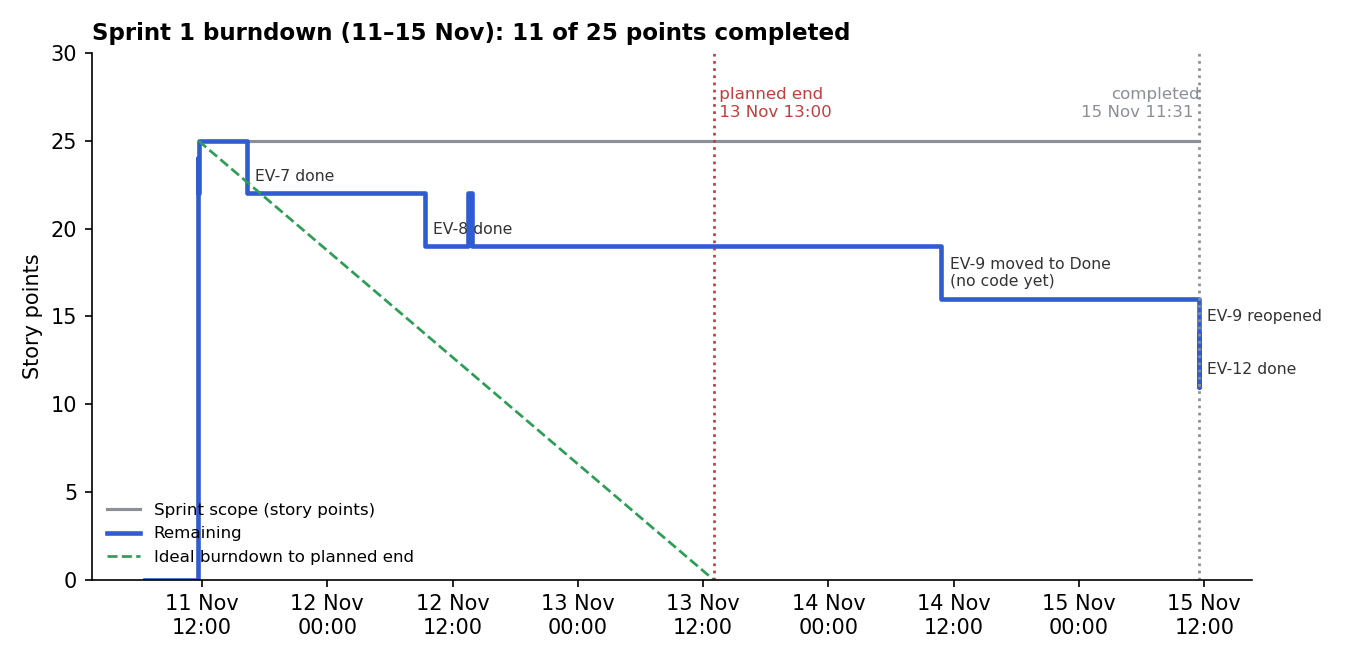
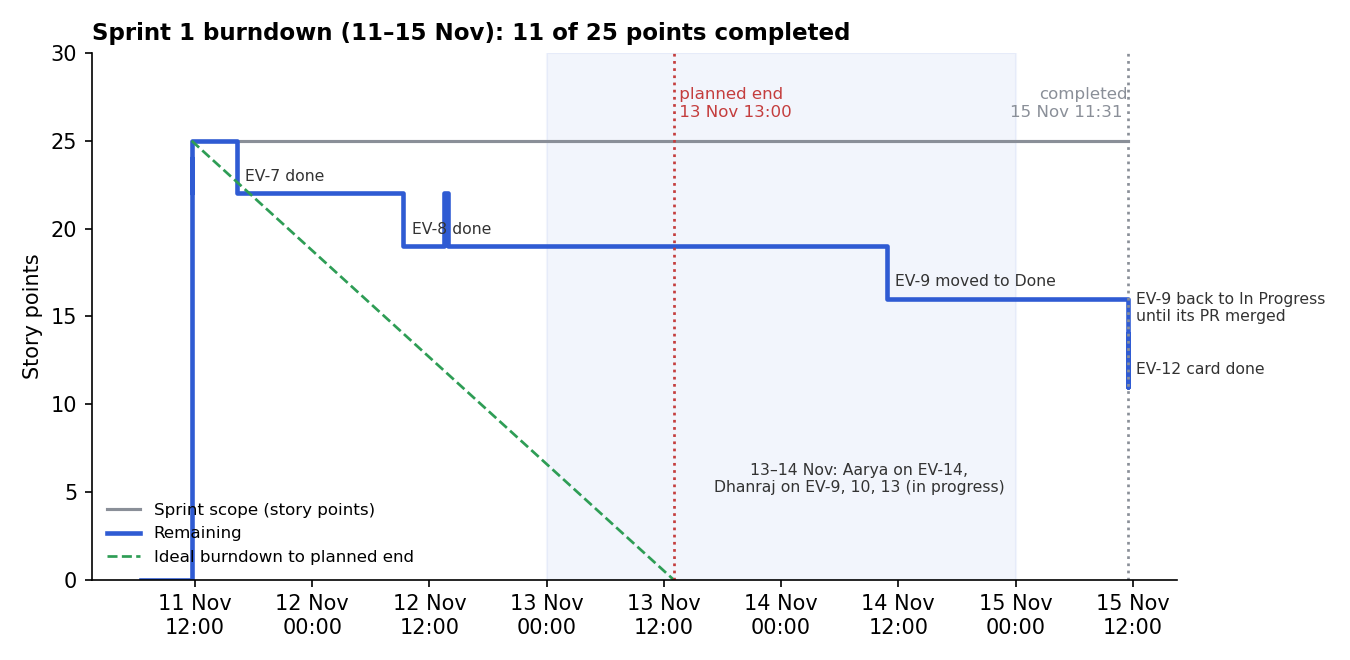
Record 13–14 Nov work and the Sprint 1 pairing session
- Aarya worked on EV-14 and Dhanraj on EV-9, EV-10 and EV-13 on 13 and 14 Nov;
  the flat burndown is explained by nothing being merged until 15 Nov.
- Pair programming on Fri 13 Nov: Yatharth drove, Aarya navigated, on EV-14.
- Daily log for 15 Nov gets Aarya's and Dhanraj's lines.
- Sprint 1 burndown chart annotated with the 13–14 Nov work in progress.

Claude-Session: https://claude.ai/code/session_01XET8XpccocAT8NTjxujbNY

diff --git a/docs/risks.md b/docs/risks.md
@@ -4,14 +4,14 @@ Probability and impact use Low, Medium or High. The last column records what act
 
 | ID | Risk | Probability | Impact | Mitigation | Owner | What actually happened |
 |---|---|---|---|---|---|---|
-| R1 | 2-day sprints give thin burndown charts | High | Medium | Move items in real time, disclose the short sprints in the report | Dhanraj | **Happened, worse than expected.** Sprint 1 slipped from 2 to 4.5 days and Sprint 2 ran on one day. The charts still tell a clear story because every move is timestamped. |
+| R1 | 2-day sprints give thin burndown charts | High | Medium | Move items in real time, disclose the short sprints in the report | Dhanraj | **Happened.** Sprint 1 ran from 11 to 15 Nov and Sprint 2 on one day. The charts still tell a clear story because every move is timestamped. |
 | R2 | Examiner questions Vitest as an xUnit tool | Medium | Medium | Ask faculty on Day 1, show the JUnit XML output | Dhanraj | Mitigated: CI publishes JUnit XML (`reports/junit.xml`). The faculty question was not confirmed in writing. |
 | R3 | Only one person understands the code | Medium | High | Owner walkthrough per story, viva rehearsal on Day 5 | Yatharth | **Still open.** Most code was written by the tech lead with an AI assistant. Walkthroughs and rehearsal are planned before the viva. |
 | R4 | Development laptop powers off under heavy load on battery | Medium | High | Stay plugged in, let CI run heavy jobs, commit often | Yatharth | Did not happen. Heavy builds ran on mains power, and tests ran in CI. |
 | R5 | Gmail or Wi-Fi fails during the viva demo | Medium | High | Rehearsed offline Docker fallback with Mailpit | Yatharth | Mitigated: `docker compose up --build` runs the whole app offline. It was tested on an empty database on 15 Nov. The public Vercel deployment was deferred (EV-26). |
 | R6 | Jira Free plan lacks a report | Low | Medium | Build the chart manually from exported data | Dhanraj | Did not happen. Burndown, burnup, velocity and sprint reports are all available on the Free plan. |
 | R7 | Print shop closed on Sunday 15 Nov | Medium | High | Confirm on Saturday, otherwise print early Monday | Dhanraj | Open on 15 Nov: to be confirmed. |
-| R8 | Scope too large for 2 sprints | Medium | Medium | Size Sprint 2 to Sprint 1 velocity, drop Should items first | Aarya | **Happened in Sprint 1** (11 of 25 SP). Sprint 2 dropped all Should and Could items except those needed by the brief. |
-| R9 *(new)* | Jira cards moved ahead of the code | Not foreseen | High | Definition of Done requires a merged PR with CI green; GitHub for Jira shows code on each card | Scrum Master | **Happened twice** (EV-8 on 12 Nov, EV-9 on 14 Nov). Both were reopened and redone. |
+| R8 | Scope too large for 2 sprints | Medium | Medium | Size Sprint 2 to Sprint 1 velocity, drop Should items first | Aarya | Sprint 1 completed 11 of 25 SP. Sprint 2 carried over the rest and dropped all Should and Could items except those needed by the brief. |
+| R9 *(new)* | Jira cards moved ahead of the code | Not foreseen | High | Definition of Done requires a merged PR with CI green; GitHub for Jira shows code on each card | Scrum Master | **Happened twice** (EV-8 on 12 Nov, EV-9 on 14 Nov). Both went back to In Progress until their PRs were merged. |
 | R10 *(new)* | Wrong Jira site timezone (+11 Sydney) | Not foreseen | Medium | Set the site default timezone to India | Yatharth | Found and fixed on 12 Nov. Sprint 1's end date was corrected to 13 Nov 13:00 IST. |
-| R11 *(new)* | Days with no team activity | Not foreseen | High | Daily scrum every day, even if only 5 minutes | Scrum Master | **Happened on 13 and 14 Nov:** no merges and no daily scrum. Sprint 1 missed its end date. |
+| R11 *(new)* | Work in progress not visible on the board | Not foreseen | Medium | Daily Scrum log every day; push work in progress as draft PRs | Scrum Master | **Happened on 13 and 14 Nov:** Aarya (EV-14) and Dhanraj (EV-9, EV-10, EV-13) worked on their stories, but none was merged until 15 Nov, so the burndown stayed flat. |

diff --git a/docs/metrics.md b/docs/metrics.md
@@ -18,9 +18,9 @@ Charts: `evidence/charts/sprint1-burndown.png`, `sprint2-burndown.png`, `velocit
 
 ## Reading the charts
 
-- **Sprint 1 burndown:** scope jumps from 0 to 25 at about 09:40 on 11 Nov when the stories were added. Remaining work dropped to 22 when EV-7 was done (11 Nov 16:18) and to 19 when EV-8 was done (12 Nov). The line is then flat for almost three days, through the planned end on 13 Nov 13:00. The drop to 16 on 14 Nov was EV-9 being moved to Done before its code existed; it was reopened on 15 Nov, and the last real drop was EV-12 to 11 remaining. The flat stretch shows that no work was finished on 13 and 14 Nov.
+- **Sprint 1 burndown:** scope jumps from 0 to 25 at about 09:40 on 11 Nov when the stories were added. Remaining work dropped to 22 when EV-7 was done (11 Nov 16:18) and to 19 when EV-8 was done (12 Nov). From 12 to 15 Nov the line stays nearly flat because no further story reached Done: on 13 and 14 Nov Aarya was working on EV-14 and Dhanraj on EV-9, EV-10 and EV-13, and none of these was merged until 15 Nov. EV-12 was merged on 12 Nov, but its card was moved to Done only on 15 Nov (drop to 11). The dip to 16 on 14 Nov is EV-9 being moved to Done before its PR merged; it went back to In Progress on 15 Nov, leaving 14 at close.
 - **Sprint 2 burndown:** no scope change. Remaining work fell in two steps, 25 → 14 at 11:55 when PRs #4–#7 merged and 14 → 0 at 12:21 when PRs #8–#11 merged. All four Sprint 1 leftovers were nearly finished when Sprint 2 started, which is why the sprint closed within an hour.
-- **Velocity:** 11 then 25, average 18. Sprint 2 is not evidence of a sustainable pace of 25 a day. It reflects stories that were finished as soon as the work actually resumed.
+- **Velocity:** 11 then 25, average 18. Sprint 2 is not evidence of a sustainable pace of 25 a day. It reflects stories that were already in progress in Sprint 1 and were merged early in Sprint 2.
 - **Burnup:** the scope line rises once, by 3 SP, when the public deployment was split into its own story. That is honest re-scoping, not creep.
 
 ## Quality
@@ -41,7 +41,7 @@ Charts: `evidence/charts/sprint1-burndown.png`, `sprint2-burndown.png`, `velocit
 
 ## Interpretation
 
-1. **The team over-planned Sprint 1 relative to its availability, not its capacity.** Work stopped on 13 and 14 Nov. A daily scrum on those days would have surfaced this and allowed a re-plan.
-2. **Jira only tells the truth if the board is updated honestly.** Twice, cards reached Done before their code existed (EV-8 on 12 Nov, EV-9 on 14 Nov). Both were reopened, and the burndown shows the bumps. The Definition of Done ("merged with CI green") is what caught it.
+1. **Finished work, not effort, moves the burndown.** Aarya and Dhanraj worked on their stories on 13 and 14 Nov, but none was merged until 15 Nov, so the chart is flat on those days. Smaller stories, and pushing work in progress as draft PRs each day, would make that work visible on the board.
+2. **The Definition of Done keeps the board accurate.** Twice, cards reached Done before their PR was merged (EV-8 on 12 Nov, EV-9 on 14 Nov). Both went back to In Progress until the merge, and the burndown shows the corrections. The Definition of Done ("merged with CI green") is what caught it.
 3. **Automation held quality steady while pace varied.** Every merge passed lint, typecheck, unit, integration and (from PR #10) Selenium checks, and no failing build reached main.
 4. **Sprint planning order matters.** Starting the sprint before adding the stories made Jira record a commitment of 0 for Sprint 1, which hides the planned 25 from the velocity chart. Sprint 2 was planned first and started second, and its chart is correct.

diff --git a/docs/scrum/sprint-1-retro.md b/docs/scrum/sprint-1-retro.md
@@ -6,8 +6,8 @@
 
 | Start | Stop | Continue |
 |---|---|---|
-| Holding the Daily Scrum every day, even for 5 minutes (none were held on 13 or 14 Nov) | Moving cards to Done before the PR is merged (EV-8 on 12 Nov, EV-9 on 14 Nov) | Small PRs with the Jira key in the branch name, so code shows on each card |
-| Planning the sprint before clicking Start sprint (Jira recorded a commitment of 0) | Leaving a sprint open past its end date (Sprint 1 closed 2.5 days late) | CI on every PR. No broken build reached main |
+| Writing the Daily Scrum log every day, even for 5 minutes, so work in progress is visible | Moving cards to Done before the PR is merged (EV-8 on 12 Nov, EV-9 on 14 Nov) | Small PRs with the Jira key in the branch name, so code shows on each card |
+| Planning the sprint before clicking Start sprint (Jira recorded a commitment of 0) | Keeping work on local machines for days instead of pushing it as a draft PR | CI on every PR. No broken build reached main |
 | _team to add_ | _team to add_ | TDD with saved red/green/refactor evidence |
 
 ## Top 2 improvements carried into Sprint 2
@@ -20,4 +20,4 @@
 ## What helped most / slowed us down
 
 - **Helped:** the CI pipeline and the Definition of Done made it obvious which stories were really finished.
-- **Slowed us down:** two days with no activity, and the Jira site timezone being set to Sydney (+11), which made the sprint end at 07:30 IST instead of 13:00.
+- **Slowed us down:** stories that needed several days of work, which kept the board and burndown flat on 13 and 14 Nov until they were merged on 15 Nov; and the Jira site timezone being set to Sydney (+11), which made the sprint end at 07:30 IST instead of 13:00.

diff --git a/docs/scrum/pairing-sprint-1.md b/docs/scrum/pairing-sprint-1.md
@@ -1,29 +1,27 @@
 # Pair Programming Session (Sprint 1)
 
-**Date:** Thu 12 Nov 2026 **Time:** ____ to ____
-**Story:** US-07 Register for an event (TDD module 1), Jira key ____
+**Date:** Fri 13 Nov 2026 **Time:** ____ to ____
+**Story:** US-16 Selenium smoke test, Jira key EV-14 (Aarya's story)
 
 | Period | Driver | Navigator |
 |---|---|---|
-| ____ to ____ | Yatharth | Aarya |
-| ____ to ____ | Aarya | Yatharth |
+| Whole session | Yatharth | Aarya |
 
-## What we built
+## What we worked on
 
-- Failing tests for the registration rules (red):
-- Code that made them pass (green):
-- Refactor into `EligibilityRule` classes:
+- The main student path as a browser test: sign up, log in, open an event and register.
+- Page Objects for the pages the test drives: `SignUpPage`, `LoginPage` and `EventsPage`, with shared helpers in `BasePage`.
 
 ## Observations
 
-1.
+1. _Aarya to add_
 2.
 3.
 
-## Commits produced
+## Where the work ended up
 
-| Commit | Type (test / feat / refactor) | Author |
+| Commit | Pull request | Merged |
 |---|---|---|
-| | | |
+| `1b955ab` EV-14 Add Selenium smoke tests and run them in CI | #10 | 15 Nov 2026 |
 
-**Evidence:** `../evidence/screenshots/2026-11-12_pairing.png`
+**Evidence:** `../evidence/screenshots/2026-11-13_pairing.jpg` (photo to add)

diff --git a/docs/scrum/sprint-2-retro.md b/docs/scrum/sprint-2-retro.md
@@ -19,7 +19,7 @@
 
 ## Project-level lessons learned
 
-- **Scrum events:** skipping the Daily Scrum on 13 and 14 Nov is the main reason Sprint 1 failed. Nothing flagged that work had stopped.
-- **Estimation and velocity:** the 25 SP plan was fine for capacity but not for availability. Velocity (11, then 25) is only meaningful if the sprint really runs over its whole timebox.
+- **Scrum events:** a written Daily Scrum each day makes work in progress visible. On 13 and 14 Nov Aarya and Dhanraj were working on their stories, but nothing was logged or merged until 15 Nov, so the board showed no progress.
+- **Estimation and velocity:** Sprint 1 completed 11 of its 25 planned SP; the other stories were in progress and finished early in Sprint 2. The average velocity of 18 SP is a realistic figure for planning a next sprint.
 - **TDD and CI:** the two TDD modules have the highest test coverage (99% of lines) and needed no fixes after merging. CI caught every problem before main.
 - **Working as a 3-person team:** with one person writing most of the code, the others must review and walk through it to be able to explain it. That is the main action before the viva.

diff --git a/docs/scrum/daily/2026-11-15.md b/docs/scrum/daily/2026-11-15.md
@@ -4,10 +4,8 @@
 
 | Member | Done since last daily | Plan today | Blockers |
 |---|---|---|---|
-| Aarya | _waiting for Aarya's line_ | | |
-| Dhanraj | _waiting for Dhanraj's line_ | | |
-| Yatharth | EV-12 (register, TDD 1) merged on 12 Nov | Close Sprint 1 at its real velocity and start Sprint 2; build EV-9, 10, 11, 13, 14, 15, 17, 22; tag v1.0.0; report | None |
+| Aarya | Worked on EV-14 Selenium smoke test on 13 and 14 Nov; paired with Yatharth on it on 13 Nov | Finish and merge EV-11 and EV-14 in Sprint 2 | — |
+| Dhanraj | Worked on EV-9 login, EV-10 create event and EV-13 cancel on 13 and 14 Nov | Finish and merge EV-9, EV-10, EV-13 and EV-15 confirmation email in Sprint 2 | — |
+| Yatharth | EV-12 (register, TDD 1) merged on 12 Nov; paired with Aarya on EV-14 on 13 Nov (driver) | Close Sprint 1 at its real velocity and start Sprint 2; build EV-9, 10, 11, 13, 14, 15, 17, 22; tag v1.0.0; report | None |
 
 **Sprint goal still on track?** Yes. Sprint 2 completed at 12:22 with 25 of 25 SP.
-
-**Note:** no Daily Scrum was held on 13 or 14 Nov (see the Sprint 1 retrospective).

diff --git a/docs/scrum/sprint-1-review.md b/docs/scrum/sprint-1-review.md
@@ -2,8 +2,8 @@
 
 > Draft prepared from the Jira and GitHub records on 15 Nov 2026. The team adds its own observations and the stakeholder feedback during the review discussion.
 
-**Held:** Sun 15 Nov 2026, before Sprint 1 was completed (the planned review on Fri 13 Nov did not take place)
-**Sprint goal met?** **Partly.** Sign-up, registration and the CI pipeline were delivered. Login, browsing, admin event creation, cancelling and the Selenium test were not.
+**Held:** Sun 15 Nov 2026, when Sprint 1 was completed
+**Sprint goal met?** **Partly.** Sign-up, registration and the CI pipeline were delivered. Login, browsing, admin event creation, cancelling and the Selenium test were in progress and carried into Sprint 2.
 
 ## Results
 
